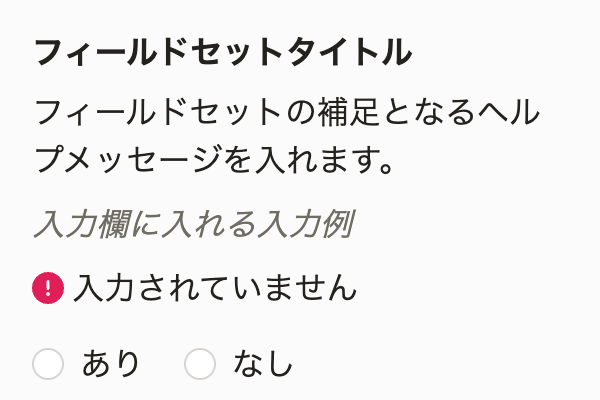
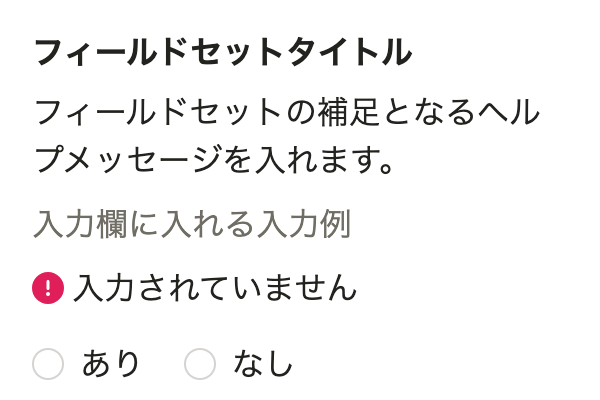
fix: コンポーネント一覧で別名のディレクトリにあるコンポーネントが表示されない問題を修正
smarthr-ui でコンポーネントがコンポーネント名と異なる名前のディレクトリに置かれていたり
（Panel/stories/Groupbox.stories.tsx、FormGroup/stories/Fieldset.stories.tsx）、
Storybook のタイトルが旧名のままだったり（Panel のタイトルが Components/Base）すると、
記事のパスを求められずに一覧から抜け落ちていた。
story ファイル名と同名の記事がトップレベルにあれば、そちらを優先するようにした。

- main では Fieldset / FormControl が一覧に戻る
- #2503 で panel/・groupbox/ の記事が追加されると Panel / Groupbox が一覧に表示される
  （サムネイルは先に追加しておく）

Changed region(s): [[0.06, 0.51, 0.6, 0.6]]

diff --git a/src/lib/getComponentCaptures.ts b/src/lib/getComponentCaptures.ts
@@ -67,6 +67,37 @@ const doesFileExist = async (...filePaths: string[]) => {
   return false;
 };
 
+const doesArticleExist = (componentPath: string) => doesFileExist(`${componentPath}.mdx`, `${componentPath}/index.mdx`);
+
+/**
+ * storyに対応するコンポーネントの記事のパスと、一覧に表示する名前を取得
+ */
+const getComponentArticle = async (title: string, importPath: string) => {
+  const titleName = title.split('/')[1];
+  const titleBasedPath = getComponentPath(importPath, titleName);
+  if (!titleBasedPath) {
+    return;
+  }
+
+  // NOTE:
+  // smarthr-uiでは、コンポーネントがコンポーネント名と異なる名前のディレクトリに置かれていたり
+  // （例: Panel/stories/Groupbox.stories.tsx、FormGroup/stories/Fieldset.stories.tsx）、
+  // 名称変更後もStorybookのタイトルが旧名のままだったり（例: Panelのタイトルが Components/Base）することがある
+  // この場合はタイトルとディレクトリ名から求めたパスでは記事が見つからないため、
+  // storyファイル名（= コンポーネント名）と同名の記事がトップレベルにあれば、そちらを優先する
+  const componentName = importPath.match(/\/([^/]+)\.stories\.tsx$/)?.[1];
+  if (componentName) {
+    const componentNameBasedPath = convertKebab(componentName);
+    if (componentNameBasedPath !== titleBasedPath && (await doesArticleExist(componentNameBasedPath))) {
+      return { displayName: componentName, componentPath: componentNameBasedPath };
+    }
+  }
+
+  if (await doesArticleExist(titleBasedPath)) {
+    return { displayName: titleName, componentPath: titleBasedPath };
+  }
+};
+
 /**
  * [SmartHR UIのStorybook](https://story.smarthr-ui.dev/)上の各コンポーネントグループの名前やサムネイル画像のパスなどを取得
  *
@@ -79,20 +110,13 @@ export async function getComponentCaptures() {
   const storyGroups: StoryGroup[] = [];
 
   for (const { id, title, importPath } of UI_STORY_INDEX) {
-    const displayName = title.split('/')[1];
-
-    // コンポーネントのパスを取得
-    const componentPath = getComponentPath(importPath, displayName);
-    if (!componentPath) {
+    // コンポーネントの記事を取得（記事が存在しないstoryは一覧に含めない）
+    const article = await getComponentArticle(title, importPath);
+    if (!article) {
       continue;
     }
 
-    // コンポーネントのパスからMDXファイルが存在するか確認
-    const exist = await doesFileExist(`${componentPath}.mdx`, `${componentPath}/index.mdx`);
-    if (!exist) {
-      continue;
-    }
-
+    const { displayName, componentPath } = article;
     const groupName = title.split('/')[0];
     const thumbnailFileName = `${groupName}-${displayName}.png`;
 
